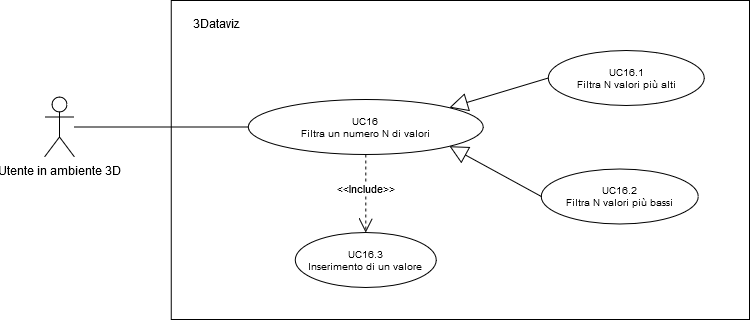
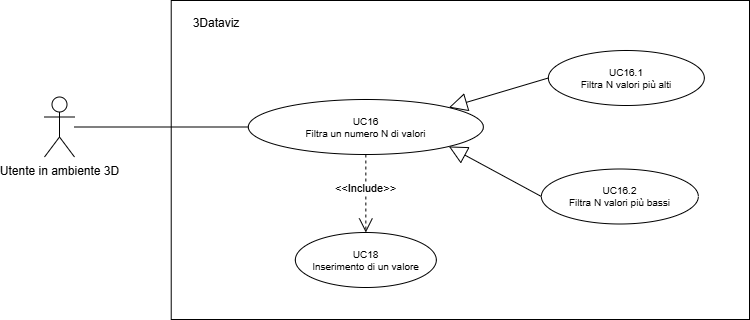
Docs/analisi dei requisiti (#218)
* Update: analisi_dei_requisiti v0.1.0

* add: analisi_dei_requisiti

* change: verifica

---------

* change : fix check pr

* Update: analisi_dei_requisiti v0.2.0

* change: casi d'uso

Descritti i casi d'uso contenuti nel documento condiviso, dal numero 1 al 7

* change: casi d'uso

- corretti i punti evidenziati
- aggiornati i diagrammi UML

* change: fix errori

* change: fix errori

* change: verifica

---------

* Update: Analisi dei requisiti - 0.3.0

* Caricamento immagini use case

* Stesura casi d'uso da UC8 a UC11.1.1

* Stesura casi d'uso sa 11.2 a 12.2

* Stesura casi d'uso da 12.3 a 14 e correzioni varie

* fix errori

* Fix 2.0

* Fix 3.0

Ultimate modifiche sui nomi degli use case e sulla formattazione stilistica uniforme del documento

* Aggiornamento versione documento

* change: verifica

---------

* Analisi dei requisiti - 78 (#84)

* change: aggiunti i contatori automatici ai casi d`uso

* change: cambiata la versione

* change: sistemate le proposizioni

* Update changelog_input

* Update titlepage

---------

* Analisi dei Requisiti - 70 (#77)

* change: cambiata versione

* add : requisiti funzionali

* change: aggiunti i template per le tabelle

* change: corretti errori su requisiti funzionali

* add: requisiti qualitativi

* add: requisiti di vincolo

* add: tracciamento requisiti

* Change : errore di battitura

* Change: aggiunta nome verificatore

* Change: aggiunta nome verificatore

* Change: update titlepage
[…]

diff --git a/Docs/Generali/analisi_dei_requisiti/03_requisiti.tex b/Docs/Generali/analisi_dei_requisiti/03_requisiti.tex
@@ -101,6 +101,10 @@ Sono stati definiti dei requisiti codificati in base all’ambito di competenza 
 tenerne meglio traccia. Nelle tabelle sottostanti sono forniti descrizione e classificazione di ciascun
 requisito. 
 Per la codifica dei requisiti si faccia riferimento alle \textit{Norme di progetto}.
+
+%\subsection{Requisiti minimi hardware}
+
+
 \subsection{Requisiti funzionali}
 \requirementsTable{
     % VISUALIZZAZIONE DATASET
@@ -135,7 +139,8 @@ Per la codifica dei requisiti si faccia riferimento alle \textit{Norme di proget
     \RFM & L’utente deve poter ruotare il grafico attorno all'asse Z   & Obbligatorio & UC11\tabularnewline
     
     %ZOOM
-    \RFM & L’utente deve poter eseguire un’azione di zoom indipendentemente dalla posizione della telecamera & Obbligatorio & UC12\tabularnewline
+    \RFM & L’utente deve poter eseguire un’azione di zoom-in indipendentemente dalla posizione della telecamera & Obbligatorio & UC12\par UC12.1\tabularnewline
+    \RFM & L’utente deve poter eseguire un’azione di zoom-out indipendentemente dalla posizione della telecamera & Obbligatorio & UC12\par UC12.2\tabularnewline
 
     %RIPOSIONNAMENTO
     \RFM & L’utente deve poter riposizionare la telecamera alla sua posizione iniziale  & Obbligatorio  & UC13\tabularnewline
@@ -151,9 +156,9 @@ Per la codifica dei requisiti si faccia riferimento alle \textit{Norme di proget
     \RFM & L’utente deve poter filtrare un numero N dei valori più bassi & Obbligatorio & UC16\par UC16.2\tabularnewline
     \RFM & L’utente deve poter inserire un numero per effettuare un filtraggio & Obbligatorio & UC16\par UC16.3\tabularnewline
     \RFM & L’utente deve poter filtrare i valori inferiori o uguali rispetto a un valore del grafico & Obbligatorio & UC17\par UC17.1\par UC17.1.1\tabularnewline
-    \RFM & L’utente deve poter filtrare i valori inferiori o uguali rispetto al valor medio globale & Obbligatorio & UC17\par UC17.1\par UC17.1.2\tabularnewline
+    \RFM & L’utente deve poter filtrare i valori inferiori o uguali rispetto al valore medio globale, ossia la media dei valori del grafico & Obbligatorio & UC17\par UC17.1\par UC17.1.2\tabularnewline
     \RFM & L’utente deve poter filtrare i valori superiori o uguali rispetto a un valore del grafico & Obbligatorio & UC17\par UC17.2\par UC17.2.1\tabularnewline
-    \RFM & L’utente deve poter filtrare i valori superiori o uguali rispetto al valor medio globale & Obbligatorio & UC17\par UC17.2\par UC17.2.2\tabularnewline
+    \RFM & L’utente deve poter filtrare i valori superiori o uguali rispetto al valore medio globale & Obbligatorio & UC17\par UC17.2\par UC17.2.2\tabularnewline
 
     %RESET
     \RFM & L’utente deve poter ripristinare lo stato del grafico
@@ -168,27 +173,30 @@ Per la codifica dei requisiti si faccia riferimento alle \textit{Norme di proget
 
     }
 
-   
+   \pagebreak
 \subsection{Requisiti qualitativi}
-    
+   
 \requirementsTable{
     \RQM & Il software deve essere sviluppato seguendo le metriche e il modello di qualità descritti nel documento \textit{Norme di progetto}  & Obbligatorio  & Decisione interna \tabularnewline
     \RQM & Il software deve essere sviluppato pubblicando il codice sorgente nel repository Github dedicato  & Obbligatorio  & Decisione interna \tabularnewline
-    \RQM & Il software deve essere sviluppato in modo tale da supportare grandi volumi di dati   & Obbligatorio & Capitolato \tabularnewline
-    \RQM & L'architettura del software deve permettere, con agilità, di aggiungere nuove funzionalità e possibilità di iterazione con il grafico   & Obbligatorio  & Capitolato \tabularnewline
-    \RQM & La suite di test deve essere robusta per garantire quanto specificato nel RQ4  & Obbligatorio  & Capitolato \tabularnewline
-    \RQD & Il software deve essere testato attraverso test di tipo e2e  & Desiderabile  & Capitolato \tabularnewline  
+    \RQM & La consegna del progetto deve includere i diagrammi UML relativi ai casi d'uso identificati & Obbligatorio & Decisione interna \tabularnewline
+    \RQM & Il software deve essere testato attraverso test di tipo e2e, concentrando l'attenzione sulle funzionalità chiave che impattano sull'esperienza utente (almeno 3 funzionalità) & Desiderabile  & Capitolato \tabularnewline 
+    \RQM & Deve essere consegnata la documentazione relativa ai test effettuati con i relativi risultati & Obbligatorio & Decisione interna \tabularnewline
 }
  \pagebreak
 \subsection{Requisiti di vincolo}
 \requirementsTable{
     \RVM & Il software deve essere sviluppato utilizzando Typescript come linguaggio di programmazione primario  & Obbligatorio  & Decisione interna \tabularnewline
+    \RVM & Il software deve supportare un massimo di 500 elementi per le coordinate X e Z mantenendo il limite di 1000 dati (es. con 500 righe, il massimo numero di colonne sarà pari a 5) & Obbligatorio & Decisione interna \tabularnewline
     \RVM & Il software deve essere sviluppato utilizzando la libreria React per la creazione di un'interfaccia visiva semplice  & Obbligatorio  & Decisione interna \tabularnewline
     \RVM & Il software deve essere sviluppato utilizzando la libreria Three.js   & Obbligatorio & Decisione interna \tabularnewline
     \RVM & Il software deve essere compatibile dalla versione 131 del browser Chrome  & Obbligatorio & Decisione interna \tabularnewline
     \RVM & Il software deve essere compatibile dalla versione 133 del browser Firefox  & Obbligatorio & Decisione interna \tabularnewline
     \RVM & Il software deve essere compatibile dalla versione 115 del browser Opera  & Obbligatorio & Decisione interna \tabularnewline
     \RVM & Il software deve essere compatibile dalla versione 131 del browser Microsoft Edge  & Obbligatorio & Decisione interna \tabularnewline
+    \RVM & Il backend del software deve essere sviluppato utilizzando Node.js & Obbligatorio & Decisione interna \tabularnewline
+    \RVM & Il framework Express.js deve essere utilizzato per la gestione delle API & Obbligatorio & Decisione interna \tabularnewline
+    \RVM & Il sistema di caching deve essere eseguito in un container Docker per garantire isolamento e facilità di gestione & Obbligatorio & Decisione interna \tabularnewline
     }
 \newpage
 
@@ -206,9 +214,11 @@ Per la codifica dei requisiti si faccia riferimento alle \textit{Norme di proget
 
 \subsubsection{Fonte - Requisiti}
 \SrcToReqTable{
-    Capitolato & RQ3\par RQ4\par RQ5\par RQ6\par RV8 \tabularnewline
+    Capitolato & RQ4 \tabularnewline
     Decisione interna & RQ1\par
-                        RQ2\par 
+                        RQ2\par
+                        RQ3\par
+                        RQ5\par 
                         RV1\par 
                         RV2\par 
                         RV3\par 
@@ -216,11 +226,15 @@ Per la codifica dei requisiti si faccia riferimento alle \textit{Norme di proget
                         RV5\par
                         RV6\par
                         RV7\par
+                        RV8\par
+                        RV9\par
+                        RV10\par
+                        RV11\par
                         RP1\par
                         RP2\par
                         RP3\par
                         RP4\par
-                        RP5\par
+                        RP5
                         \tabularnewline
     UC1    & RF1 \tabularnewline
     UC1.1    & RF2 \tabularnewline
@@ -243,28 +257,30 @@ Per la codifica dei requisiti si faccia riferimento alle \textit{Norme di proget
     UC9    & RF16 \tabularnewline
     UC10    & RF17 \tabularnewline
     UC11   & RF18 \tabularnewline
-    UC12    & RF19 \tabularnewline
-    UC13    & RF20 \tabularnewline
-    UC14   & RF21 \tabularnewline
-    UC15    & RF22 \tabularnewline
-    UC15.1    & R22 \tabularnewline
-    UC15.2    & RF22 \tabularnewline
-    UC16    & RF23\par RF24\par RF25 \tabularnewline
-    UC16.1    & RF23 \tabularnewline
-    UC16.2    & RF24 \tabularnewline
-    UC16.3    & RF25 \tabularnewline
-    UC17    & RF26\par RF27\par RF28\par RF29 \tabularnewline
-    UC17.1    & RF26\par RF27 \tabularnewline
-    UC17.1.1    & RF26 \tabularnewline
-    UC17.1.2    & RF27 \tabularnewline
-    UC17.2    & RF28\par RF29 \tabularnewline
-    UC17.2.1    & RF28 \tabularnewline
-    UC17.2.2    & RF29 \tabularnewline
-    UC18   & RF30 \tabularnewline
-    UC19   & RF31\par RF32 \tabularnewline
-    UC19.1    & RF31 \tabularnewline
-    UC19.2    & RF32 \tabularnewline
-    VE 2024-12-19  & RF33 \tabularnewline
+    UC12    & RF19\par RF20 \tabularnewline
+    UC12.1    & RF19 \tabularnewline
+    UC12.2    & RF20 \tabularnewline
+    UC13    & RF21 \tabularnewline
+    UC14   & RF22 \tabularnewline
+    UC15    & RF23 \tabularnewline
+    UC15.1    & R23 \tabularnewline
+    UC15.2    & RF23 \tabularnewline
+    UC16    & RF24\par RF25\par RF26 \tabularnewline
+    UC16.1    & RF24 \tabularnewline
+    UC16.2    & RF25 \tabularnewline
+    UC16.3    & RF26 \tabularnewline
+    UC17    & RF27\par RF28\par RF29\par RF30 \tabularnewline
+    UC17.1    & RF27\par RF28 \tabularnewline
+    UC17.1.1    & RF27 \tabularnewline
+    UC17.1.2    & RF28 \tabularnewline
+    UC17.2    & RF29\par RF30 \tabularnewline
+    UC17.2.1    & RF29 \tabularnewline
+    UC17.2.2    & RF30 \tabularnewline
+    UC18   & RF31 \tabularnewline
+    UC19   & RF32\par RF33 \tabularnewline
+    UC19.1    & RF32 \tabularnewline
+    UC19.2    & RF33 \tabularnewline
+    VE 2024-12-19  & RF34 \tabularnewline
 
     }
 
@@ -289,28 +305,29 @@ Per la codifica dei requisiti si faccia riferimento alle \textit{Norme di proget
     RF16 & UC9 \tabularnewline
     RF17 & UC10 \tabularnewline
     RF18 & UC11\tabularnewline
-    RF19 & UC12 \tabularnewline
-    RF20 & UC13 \tabularnewline
-    RF21 & UC14 \tabularnewline
-    RF22 & UC15\par UC15.1\par UC15.2 \tabularnewline
-    RF23 & UC16\par UC16.1 \tabularnewline
-    RF24 & UC16\par UC16.2 \tabularnewline
-    RF25 & UC16\par UC16.3 \tabularnewline
-    RF26 & UC17\par UC17.1\par UC17.1.1 \tabularnewline
-    RF27 & UC17\par UC17.1\par UC17.1.2 \tabularnewline
-    RF28 & UC17\par UC17.2\par UC17.2.1 \tabularnewline
-    RF29 & UC17\par UC17.2\par UC17.2.2 \tabularnewline
-    RF30 & UC18 \tabularnewline
-    RF31 & UC19\par UC19.1 \tabularnewline
-    RF32 & UC19\par UC19.2 \tabularnewline
-    RF33 & VE 2024-12-19  \tabularnewline
+    RF19 & UC12\par UC12.1\tabularnewline
+    RF20 & UC12\par UC12.2 \tabularnewline
+    RF21 & UC13 \tabularnewline
+    RF22 & UC14 \tabularnewline
+    RF23 & UC15\par UC15.1\par UC15.2 \tabularnewline
+    RF24 & UC16\par UC16.1 \tabularnewline
+    RF25 & UC16\par UC16.2 \tabularnewline
+    RF26 & UC16\par UC16.3 \tabularnewline
+    RF27 & UC17\par UC17.1\par UC17.1.1 \tabularnewline
+    RF28 & UC17\par UC17.1\par UC17.1.2 \tabularnewline
+    RF29 & UC17\par UC17.2\par UC17.2.1 \tabularnewline
+    RF30 & UC17\par UC17.2\par UC17.2.2 \tabularnewline
+    RF31 & UC18 \tabularnewline
+    RF32 & UC19\par UC19.1 \tabularnewline
+    RF33 & UC19\par UC19.2 \tabularnewline
+    RF34 & VE 2024-12-19  \tabularnewline
 
     RQ1 & Decisione interna\tabularnewline
     RQ2 & Decisione interna\tabularnewline
-    RQ3 & Capitolato\tabularnewline
+    RQ3 & Decisione interna\tabularnewline
     RQ4 & Capitolato\tabularnewline
-    RQ5 & Capitolato\tabularnewline
-    RQ6 & Capitolato\tabularnewline
+    RQ5 & Decisione interna\tabularnewline
+
 
     RV1 & Decisione interna\tabularnewline
     RV2 & Decisione interna\tabularnewline
@@ -319,7 +336,10 @@ Per la codifica dei requisiti si faccia riferimento alle \textit{Norme di proget
     RV5 & Decisione interna\tabularnewline
     RV6 & Decisione interna\tabularnewline
     RV7 & Decisione interna\tabularnewline
-    RV7 & Capitolato\tabularnewline
+    RV8 & Decisione interna\tabularnewline
+    RV9 & Decisione interna\tabularnewline
+    RV10 & Decisione interna\tabularnewline
+    RV11 & Decisione interna\tabularnewline
 
     RP1 & Decisione interna\tabularnewline
     RP2 & Decisione interna\tabularnewline
@@ -344,7 +364,7 @@ Per la codifica dei requisiti si faccia riferimento alle \textit{Norme di proget
     Di vincolo & \arabic{RV1} & \arabic{RV2} & \arabic{RV3} & \arabic{RV} \tabularnewline
     Prestazionali & \arabic{RP1} & \arabic{RP2} & \arabic{RP3} & \arabic{RP} \tabularnewline
     \bottomrule
-    \textbf{Totale requisiti} & \arabic{M} & \arabic{D} & \arabic{O} & \arabic{T}
+    \textbf{Totale requisiti} & \arabic{M} & \arabic{D} & \arabic{O} & \arabic{T} \tabularnewline
     
 }
 

diff --git a/Docs/Generali/analisi_dei_requisiti/02_use_cases.tex b/Docs/Generali/analisi_dei_requisiti/02_use_cases.tex
@@ -732,7 +732,7 @@
 %UC12 - UC19
 \UseCase{Zoom della vista}
 \begin{figure}[h!]\centering
-    \includegraphics[scale=0.6]{template/images/UC12.png}
+    \includegraphics[scale=0.8]{template/images/UC12.png}
     \caption{\nameref*{UC:\arabic{UC}}}
 \end{figure}
 \UCdsc
@@ -763,6 +763,63 @@
     \end{itemize}
 } 
 
+\SubUseCase{Zoom-in della vista}
+\UCdsc
+{ % ATTORE
+    \begin{itemize}
+        \item Utente in ambiente 3D.
+    \end{itemize}
+}
+{ % DESCRIZIONE
+    \begin{itemize}
+        \item Lo zoom-in permette all'utente di avvicinarsi all'ambiente, aumentando la profondità positiva della visualizzazione.
+    \end{itemize}
+}
+{ % PRECONDIZIONI
+    \begin{itemize}
+        \item L'azione di zoom-in deve essere valida. Un'azione di zoom-in è valida se non va al di fuori di un'area predefinita dal sistema;
+        \item La telecamera si trova in una posizione arbitraria nello spazio.
+    \end{itemize}
+}
+{ % POSTCONDIZIONI
+    \begin{itemize}
+        \item La telecamera si trova in una posizione più vicina all'ambiente, ovvero con una profondità maggiore.
+    \end{itemize}
+}
+{ % SCENARIO PRIMARIO
+    \begin{itemize}
+        \item L'utente interagisce con il sistema per eseguire un'azione di zoom-in, che modifica la posizione della telecamera in direzione di una profondità maggiore.
+    \end{itemize}
+} 
+
+\SubUseCase{Zoom-out della vista}
+\UCdsc
+{ % ATTORE
+    \begin{itemize}
+        \item Utente in ambiente 3D.
+    \end{itemize}
+}
+{ % DESCRIZIONE
+    \begin{itemize}
+        \item Lo zoom out permette all'utente di allontanarsi dall'ambiente, riducendo la profondità della visualizzazione.
+    \end{itemize}
+}
+{ % PRECONDIZIONI
+    \begin{itemize}
+        \item L'azione di zoom-out deve essere valida. Un'azione di zoom-out è valida se non va al di fuori di un'area predefinita dal sistema;
+        \item La telecamera si trova in una posizione arbitraria nello spazio.
+    \end{itemize}
+}
+{ % POSTCONDIZIONI
+    \begin{itemize}
+        \item La telecamera si trova in una posizione più lontana rispetto a quella iniziale, ovvero con una profondità minore.
+    \end{itemize}
+}
+{ % SCENARIO PRIMARIO
+    \begin{itemize}
+        \item L'utente interagisce con il sistema per eseguire un'azione di zoom-out, che modifica la posizione della telecamera in direzione di una profondità minore.
+    \end{itemize}
+} 
 
 \UseCase{Riposiziona telecamera alla posizione d’origine}
 \begin{figure}[H]\centering

diff --git a/Docs/Generali/analisi_dei_requisiti/titlepage.tex b/Docs/Generali/analisi_dei_requisiti/titlepage.tex
@@ -17,11 +17,11 @@
 	\rule{0.6\textwidth}{0.4pt}
 	\\[0.5cm]
 	\begin{tabular}{r|l}
-		\textbf{Versione} & 1.0.0\\
-		\textbf{Stato} & Approvato\\
+		\textbf{Versione} & 1.2.0\\
+		\textbf{Stato} & in redazione\\
 		\textbf{Uso} & Esterno\\                         
 		\textbf{Approvazione} & Soranzo Andrea\\                      
-		\textbf{Redazione} & Pincin Matteo\\ & Diviesti Filippo\\ & Soranzo Andrea \\ & Djossa Edgar \\
+		\textbf{Redazione} & Pincin Matteo\\ & Diviesti Filippo\\ & Soranzo Andrea \\ & Djossa Edgar \\ & Chilese Elena \\
 		\textbf{Verifica} & Bergamin Elia\\ & Soranzo Andrea \\ & Chilese Elena \\  & Djossa Edgar \\                     
 		\textbf{Distribuzione} & \textit{Six Bit Busters} \\ & Prof. Vardanega Tullio \\ & Prof. Cardin Riccardo \\ & \textit{Sanmarco Informatica S.p.A.}
 	\end{tabular}	

diff --git a/Docs/Generali/analisi_dei_requisiti/template/requirements.tex b/Docs/Generali/analisi_dei_requisiti/template/requirements.tex
@@ -2,11 +2,11 @@
 
 \renewcommand{\arraystretch}{1.5}
 \rowcolors{2}{pari}{dispari}
-\begin{longtable}{ %0.87
-		>{\centering}M{0.15\textwidth} 
-		>{\centering}M{0.5\textwidth}
+\begin{longtable}{ %0.89
+		>{\centering}M{0.12\textwidth} 
+		>{\centering}M{0.47\textwidth}
 		>{\centering}M{0.20\textwidth}
-		>{\centering\arraybackslash}M{0.15\textwidth} 
+		>{\centering\arraybackslash}M{0.10\textwidth} 
 		 }
 	\rowcolorhead
 	\headertitle{Requisito} &
@@ -70,7 +70,7 @@
 \renewcommand{\arraystretch}{1.5}
 \rowcolors{2}{pari}{dispari}
 \begin{longtable}{ %0.87
-		>{\centering}M{0.3\textwidth} 
+		>{\centering}M{0.27\textwidth} 
 		>{\centering}M{0.15\textwidth}
 		>{\centering}M{0.15\textwidth}
 		>{\centering}M{0.15\textwidth}

diff --git a/Docs/Verbali Esterni/VE_2024-12-19/main.tex b/Docs/Verbali Esterni/VE_2024-12-19/main.tex
@@ -10,6 +10,31 @@
 \makeindex
 \begin{document}
 
+% Prima pagina
+\input{titlepage.tex}
+
+% Diario delle modifiche
+\input{template/changelog.tex}
+\input{config/changelog_input.tex}
+\pagebreak
+
+% Indice
+{
+    \hypersetup{linkcolor=black}
+    \tableofcontents
+}
+\pagebreak
+
+% Contenuto
+\include{content_01.tex}
+\pagebreak
+
+% insert here other content (\include)
+\input{template/tracking.tex}
+\input{config/tracking_input.tex}
+
+\hfill\signature{Approvazione esterna}{Sanmarco Informatica}
+
 \include{titlepage}
 \includepdf[pages={2,3,4,5,6}]{VE_2024_12_19_firmato.pdf}
 \end{document}

diff --git a/Docs/Generali/analisi_dei_requisiti/config/changelog_input.tex b/Docs/Generali/analisi_dei_requisiti/config/changelog_input.tex
@@ -1,5 +1,7 @@
 % Insert changelog values here
 \changelogTable{
+    1.2.0 & 28-02-2025 & Chilese Elena & Correzione Requisiti e UC & Bergamin Elia \tabularnewline
+    1.1.0 & 11-02-2025 & Pincin Matteo & Aggiunti requisiti di vincolo backend & Chilese Elena \tabularnewline
     1.0.0 & 31-01-2025 & Soranzo Andrea & Approvazione documento & - \tabularnewline
     0.9.0 & 29-01-2025 & Djossa Edgar & Revisione requisiti funzionali e caso d'uso UC18  & Bergamin Elia \tabularnewline
     0.8.0 & 27-01-2025 & Chilese Elena & Revisione documento & Diviesti Filippo \tabularnewline
